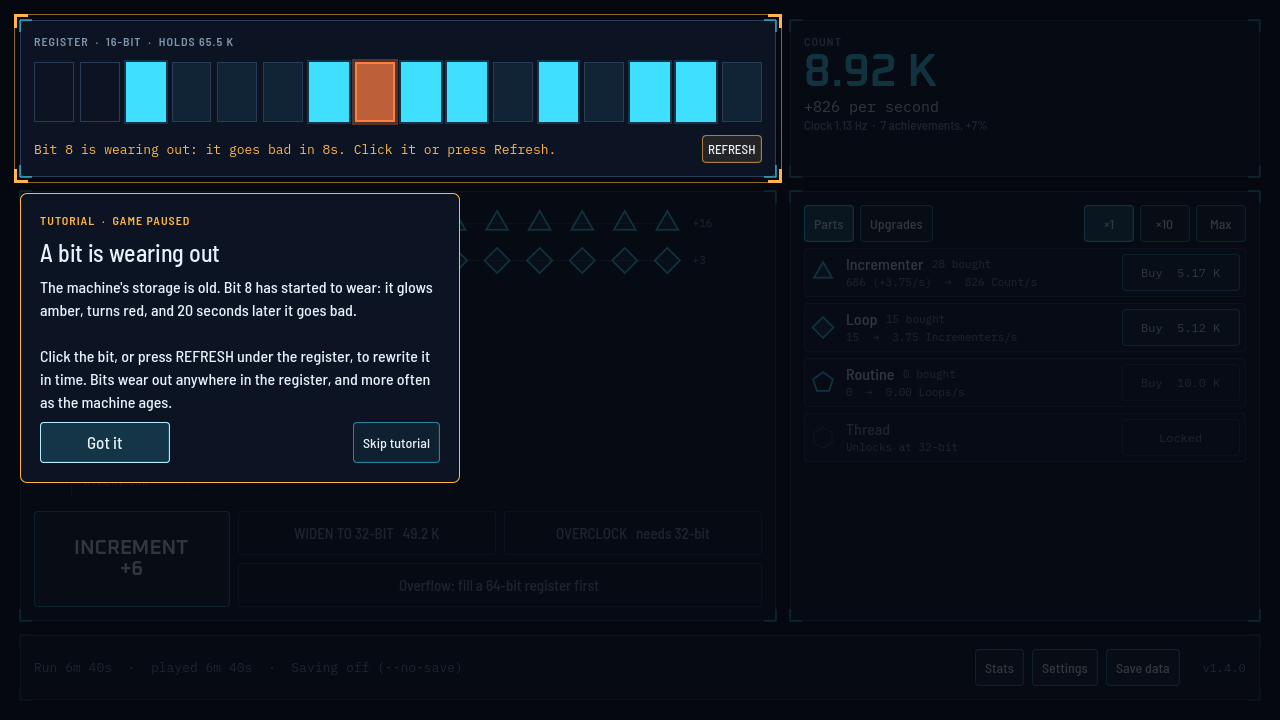
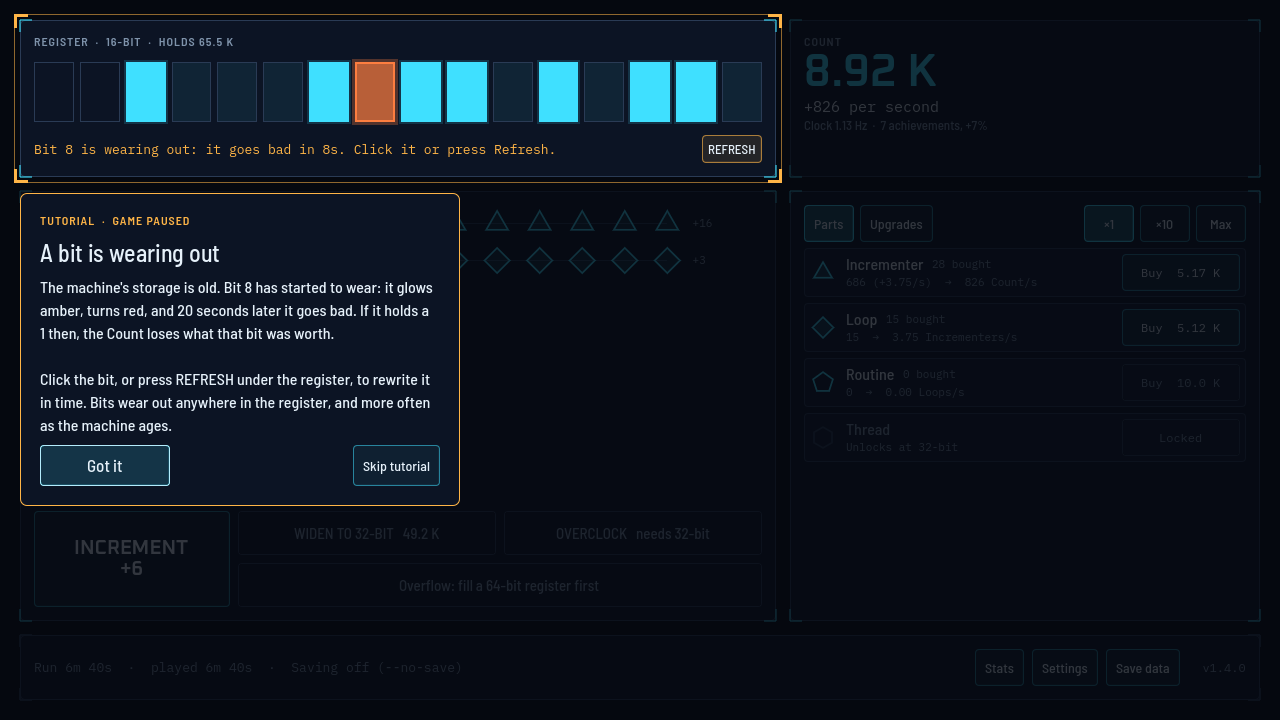
Take a bad bit's value out of the Count when it held a 1
A bit that goes bad while it holds a 1 costs the Count what that bit was
worth. The loss rises in red over the register, Stats keep a total, and
the run log records it. A player who never refreshes is printed by the
pacing check but no longer checked: bad bits may pile up.

Changed region(s): [[0.0312, 0.4583, 0.3438, 0.7028], [0.2812, 0.6111, 0.3438, 0.7028], [0.2812, 0.4278, 0.3438, 0.4583]]

diff --git a/docs/PROGRESS.md b/docs/PROGRESS.md
@@ -10,6 +10,7 @@ Newest first. Screenshots are captured from the real game at 1280 × 720. The `-
 - scrub puzzles that grow the further you get, so you have to flip several bits
 - worn bits that go bad after 20 seconds rather than 90
 - no protection for players who look away: bad bits may pile up
+- a bit that goes bad takes its value out of the Count if it held a 1
 
 **The tutorial.** The first time each of five things happens, the game pauses: nothing is produced, nothing wears, and the play clock stops. The screen dims except for the part being explained, which gets an amber frame, and a card beside it explains what to do. After **Got it** the frame keeps pulsing on that part until you've done it. **Skip tutorial** turns the rest off. The buttons wait 0.8 seconds before they work, so someone clicking fast doesn't skip a card unread. Saves from before 1.4.0 skip the first three steps but still get the two about worn bits.
 
@@ -19,7 +20,7 @@ Newest first. Screenshots are captured from the real game at 1280 × 720. The `-
 
 **Worn bits.** From 16 bits on, every couple of minutes a random bit starts to wear, anywhere in the register. It glows amber, reddens and flickers faster, and after 20 seconds it goes bad. Click it, or press **Refresh** under the register, to save it. On wide registers the cells are tiny, so a click lands on the nearest worn bit within a cell's reach, and in a single row the worn bits get markers above and below. Bits wear more often after each Overflow, up to three times as often; Spare rows halve that.
 
-A bad bit below the Count now stops it growing. Until now bad bits only appeared above the Count.
+A bad bit below the Count now stops it growing. Until now bad bits only appeared above the Count. And if the bit held a 1 when it went bad, the Count loses that bit's value: a red "-N" rises from the register, which flashes red, and Stats keep a running total. Losing the Count's top bit drops it below the bad bit, so it can grow back up to just under it.
 
 ![The first worn bit](screenshots/2026-10-19-v140-03-tutorial-wear.png)
 
@@ -35,7 +36,7 @@ A bad bit below the Count now stops it growing. Until now bad bits only appeared
 
 ![A 1024-bit puzzle: four flips](screenshots/2026-10-19-v140-08-scrub-1024-bit.png)
 
-**Pacing:** in the simulator about 20 bits wear out per run, roughly one every two minutes, 197 over the whole game. A player who refreshes them within 10 seconds keeps the old pace: first Overflow at 49 min, ending at 6 h 14 min. A player who never refreshes falls behind, and from the fourth run, with a 32-bit Boot ROM, bad bits arrive faster than they scrub themselves and hold the Count for hours. That's intended, so the pacing check prints this player but no longer fails on it. A player who comes back can still clear the pile by repairing or scrubbing the bits one by one.
+**Pacing:** in the simulator about 20 bits wear out per run, roughly one every two minutes, 197 over the whole game. A player who refreshes them within 10 seconds keeps the old pace: first Overflow at 49 min, ending at 6 h 14 min. A player who never refreshes loses Count and time to every bad bit, and finishes at about 6 h 28 min. Before bad bits took their value, that same player got stuck: from the fourth run, in a 32-bit register, bad bits arrived faster than they scrubbed themselves and held the Count for hours. Now a lost top bit drops the Count below the bad bit, so it can grow again. You said piling up is fine, so the pacing check prints this player but no longer fails on it. A player who comes back to a pile can clear it by repairing or scrubbing the bits one by one.
 
 **Browser check:** with worn bits flickering, the register redraws every frame, so I counted WebGL buffers in a localhost copy. The register now draws only rectangles and one texture, and adds none. The 16 to 24 buffers a second that remain come from elsewhere on the screen, most likely the buttons whose text changes ten times a second, and every one is deleted again. With a tutorial card open, nothing is created at all, because the game is paused.
 

diff --git a/README.md b/README.md
@@ -23,7 +23,7 @@ Click the register or press **Space** to increment. The `windows-debug` build ad
 
 **Start over** (Save data, or New game on the start screen) erases the game but first writes it to `save-before-start-over.json` in the save folder; rename that to `save.json`, with the game closed, to get it back.
 
-**Worn and bad bits:** the register's storage wears out as you play. A worn bit glows amber, then red, and goes bad after 20 seconds unless you click it or press **Refresh**. A bad bit stops the Count until you **Repair** it (half the bit's value in Count), **Scrub** it (solve a parity puzzle that grows with the register, free) or wait a minute. They can be switched off in Settings.
+**Worn and bad bits:** the register's storage wears out as you play. A worn bit glows amber, then red, and goes bad after 20 seconds unless you click it or press **Refresh**. If it held a 1, the Count loses that bit's value. A bad bit stops the Count until you **Repair** it (half the bit's value in Count), **Scrub** it (solve a parity puzzle that grows with the register, free) or wait a minute. They can be switched off in Settings.
 
 **Tutorial:** the first time something new happens, the game pauses and explains it. **Skip tutorial** turns it off for that save.
 
